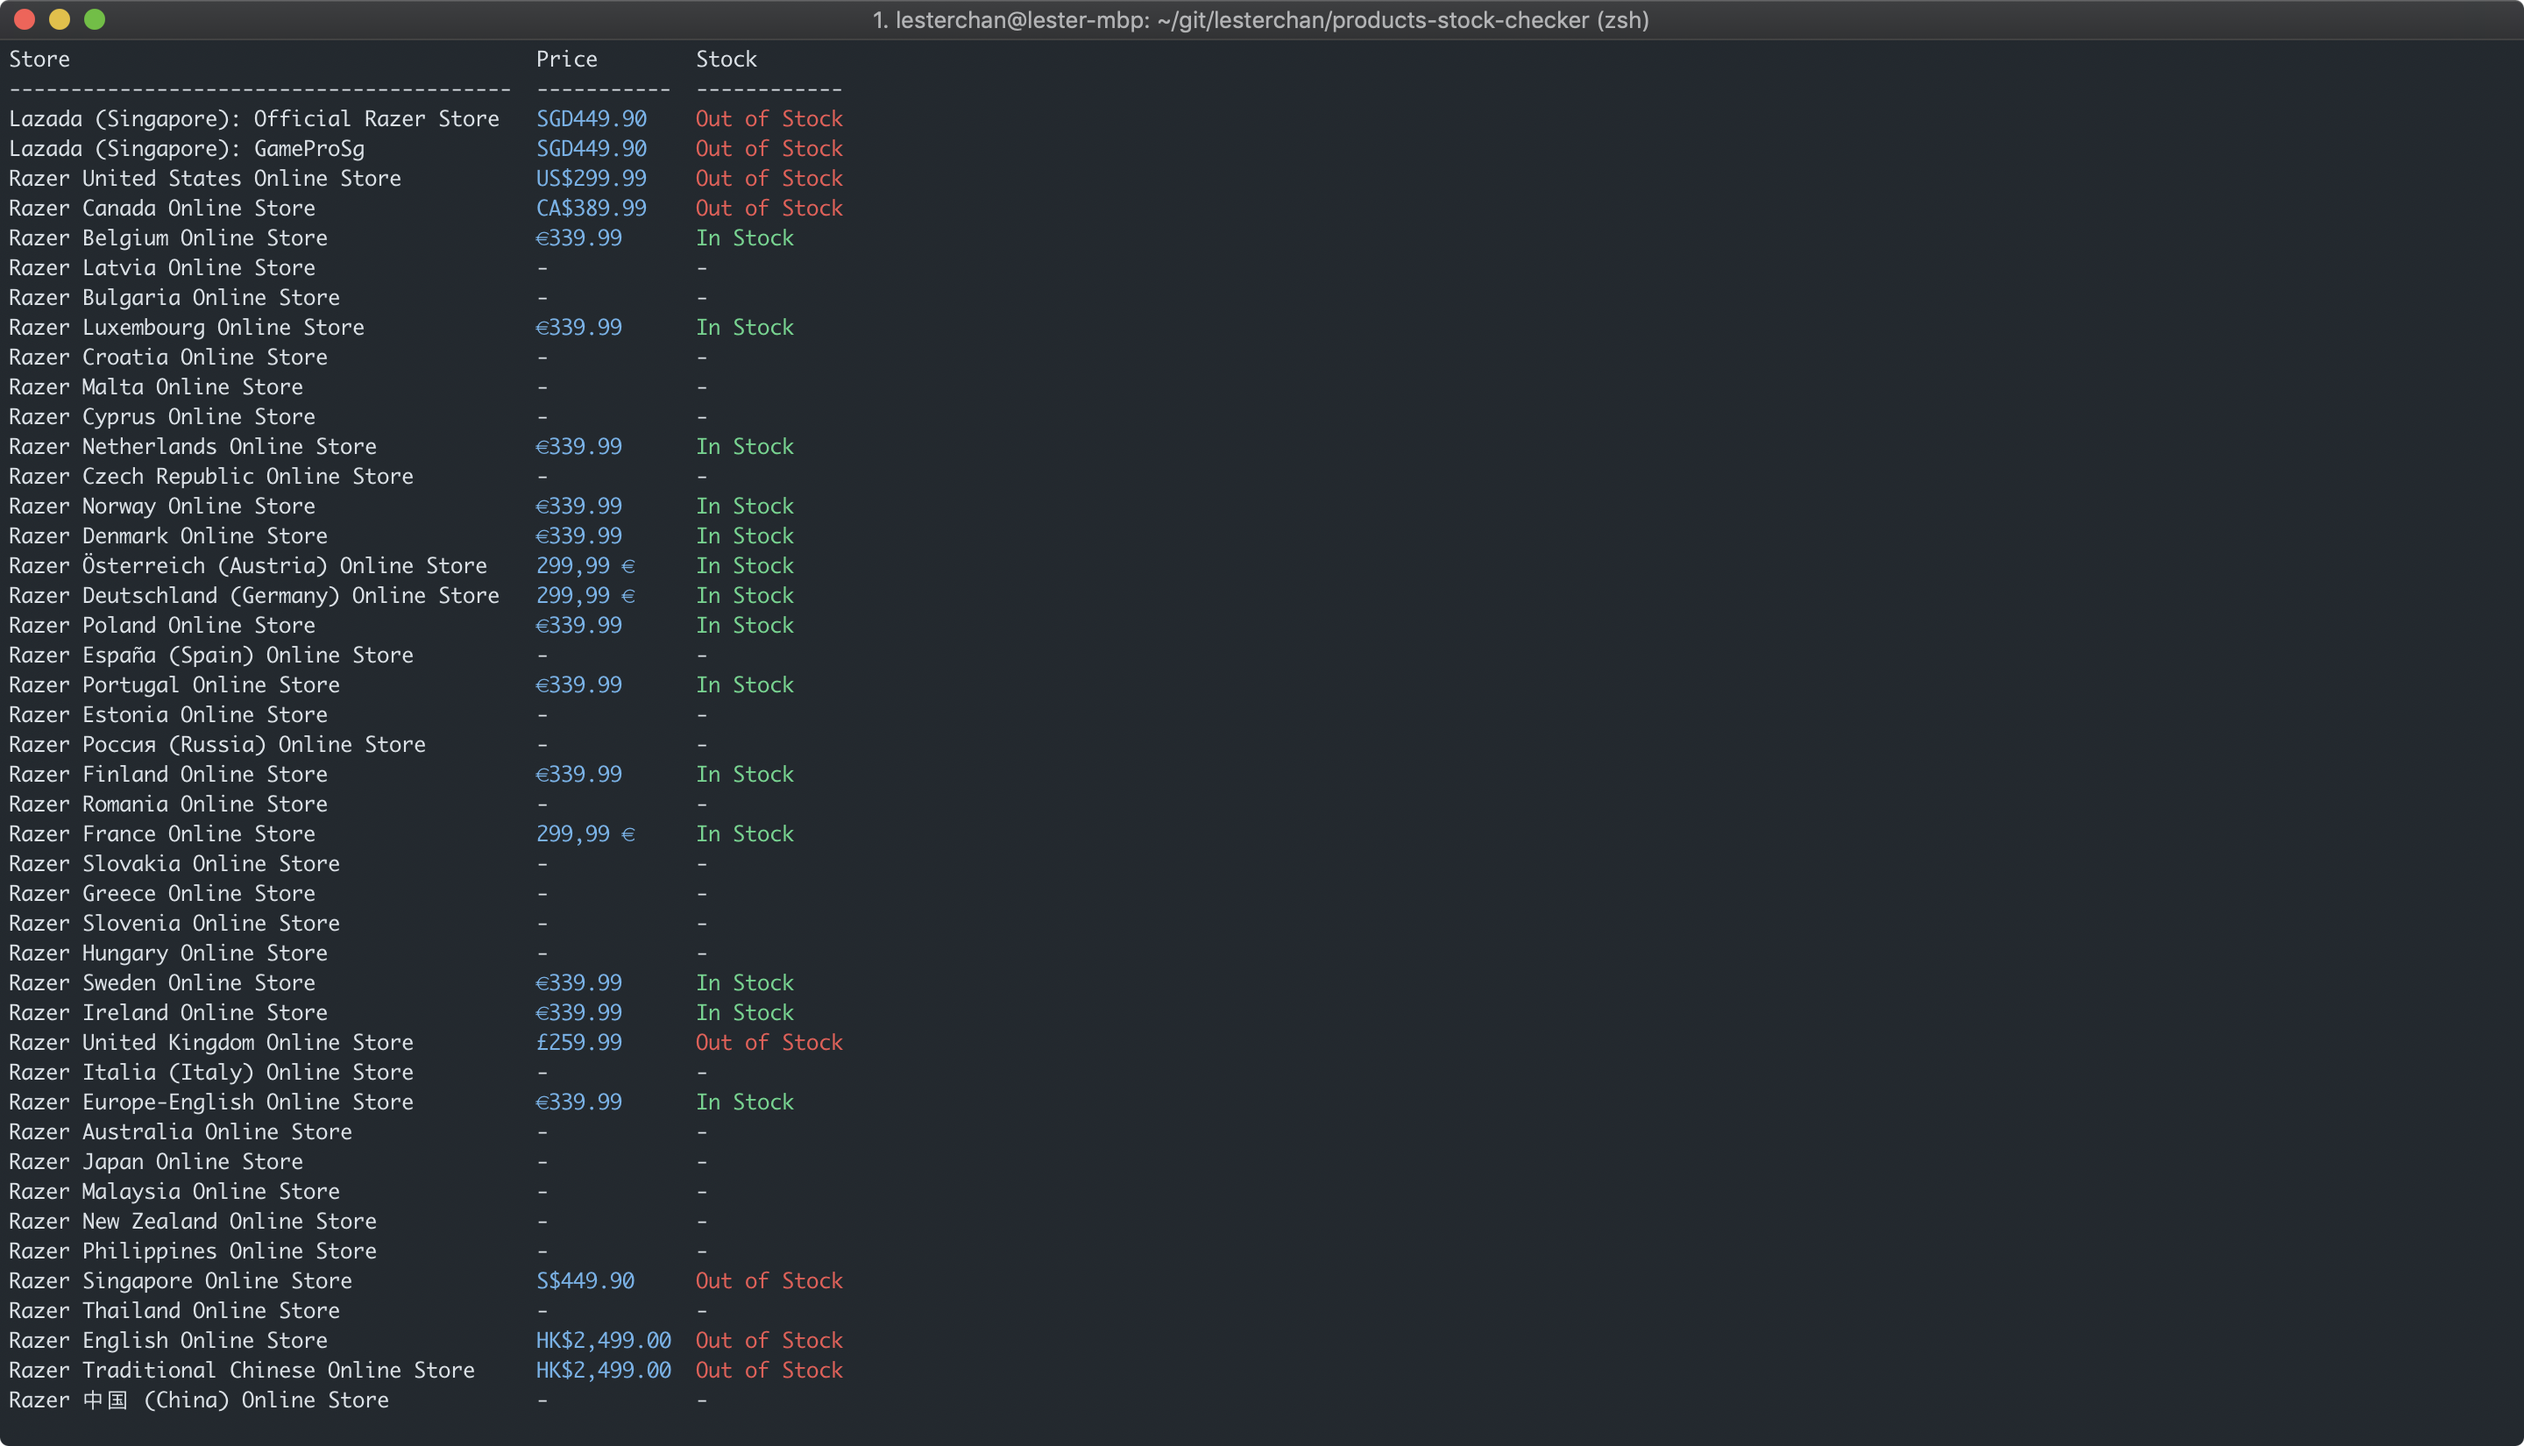
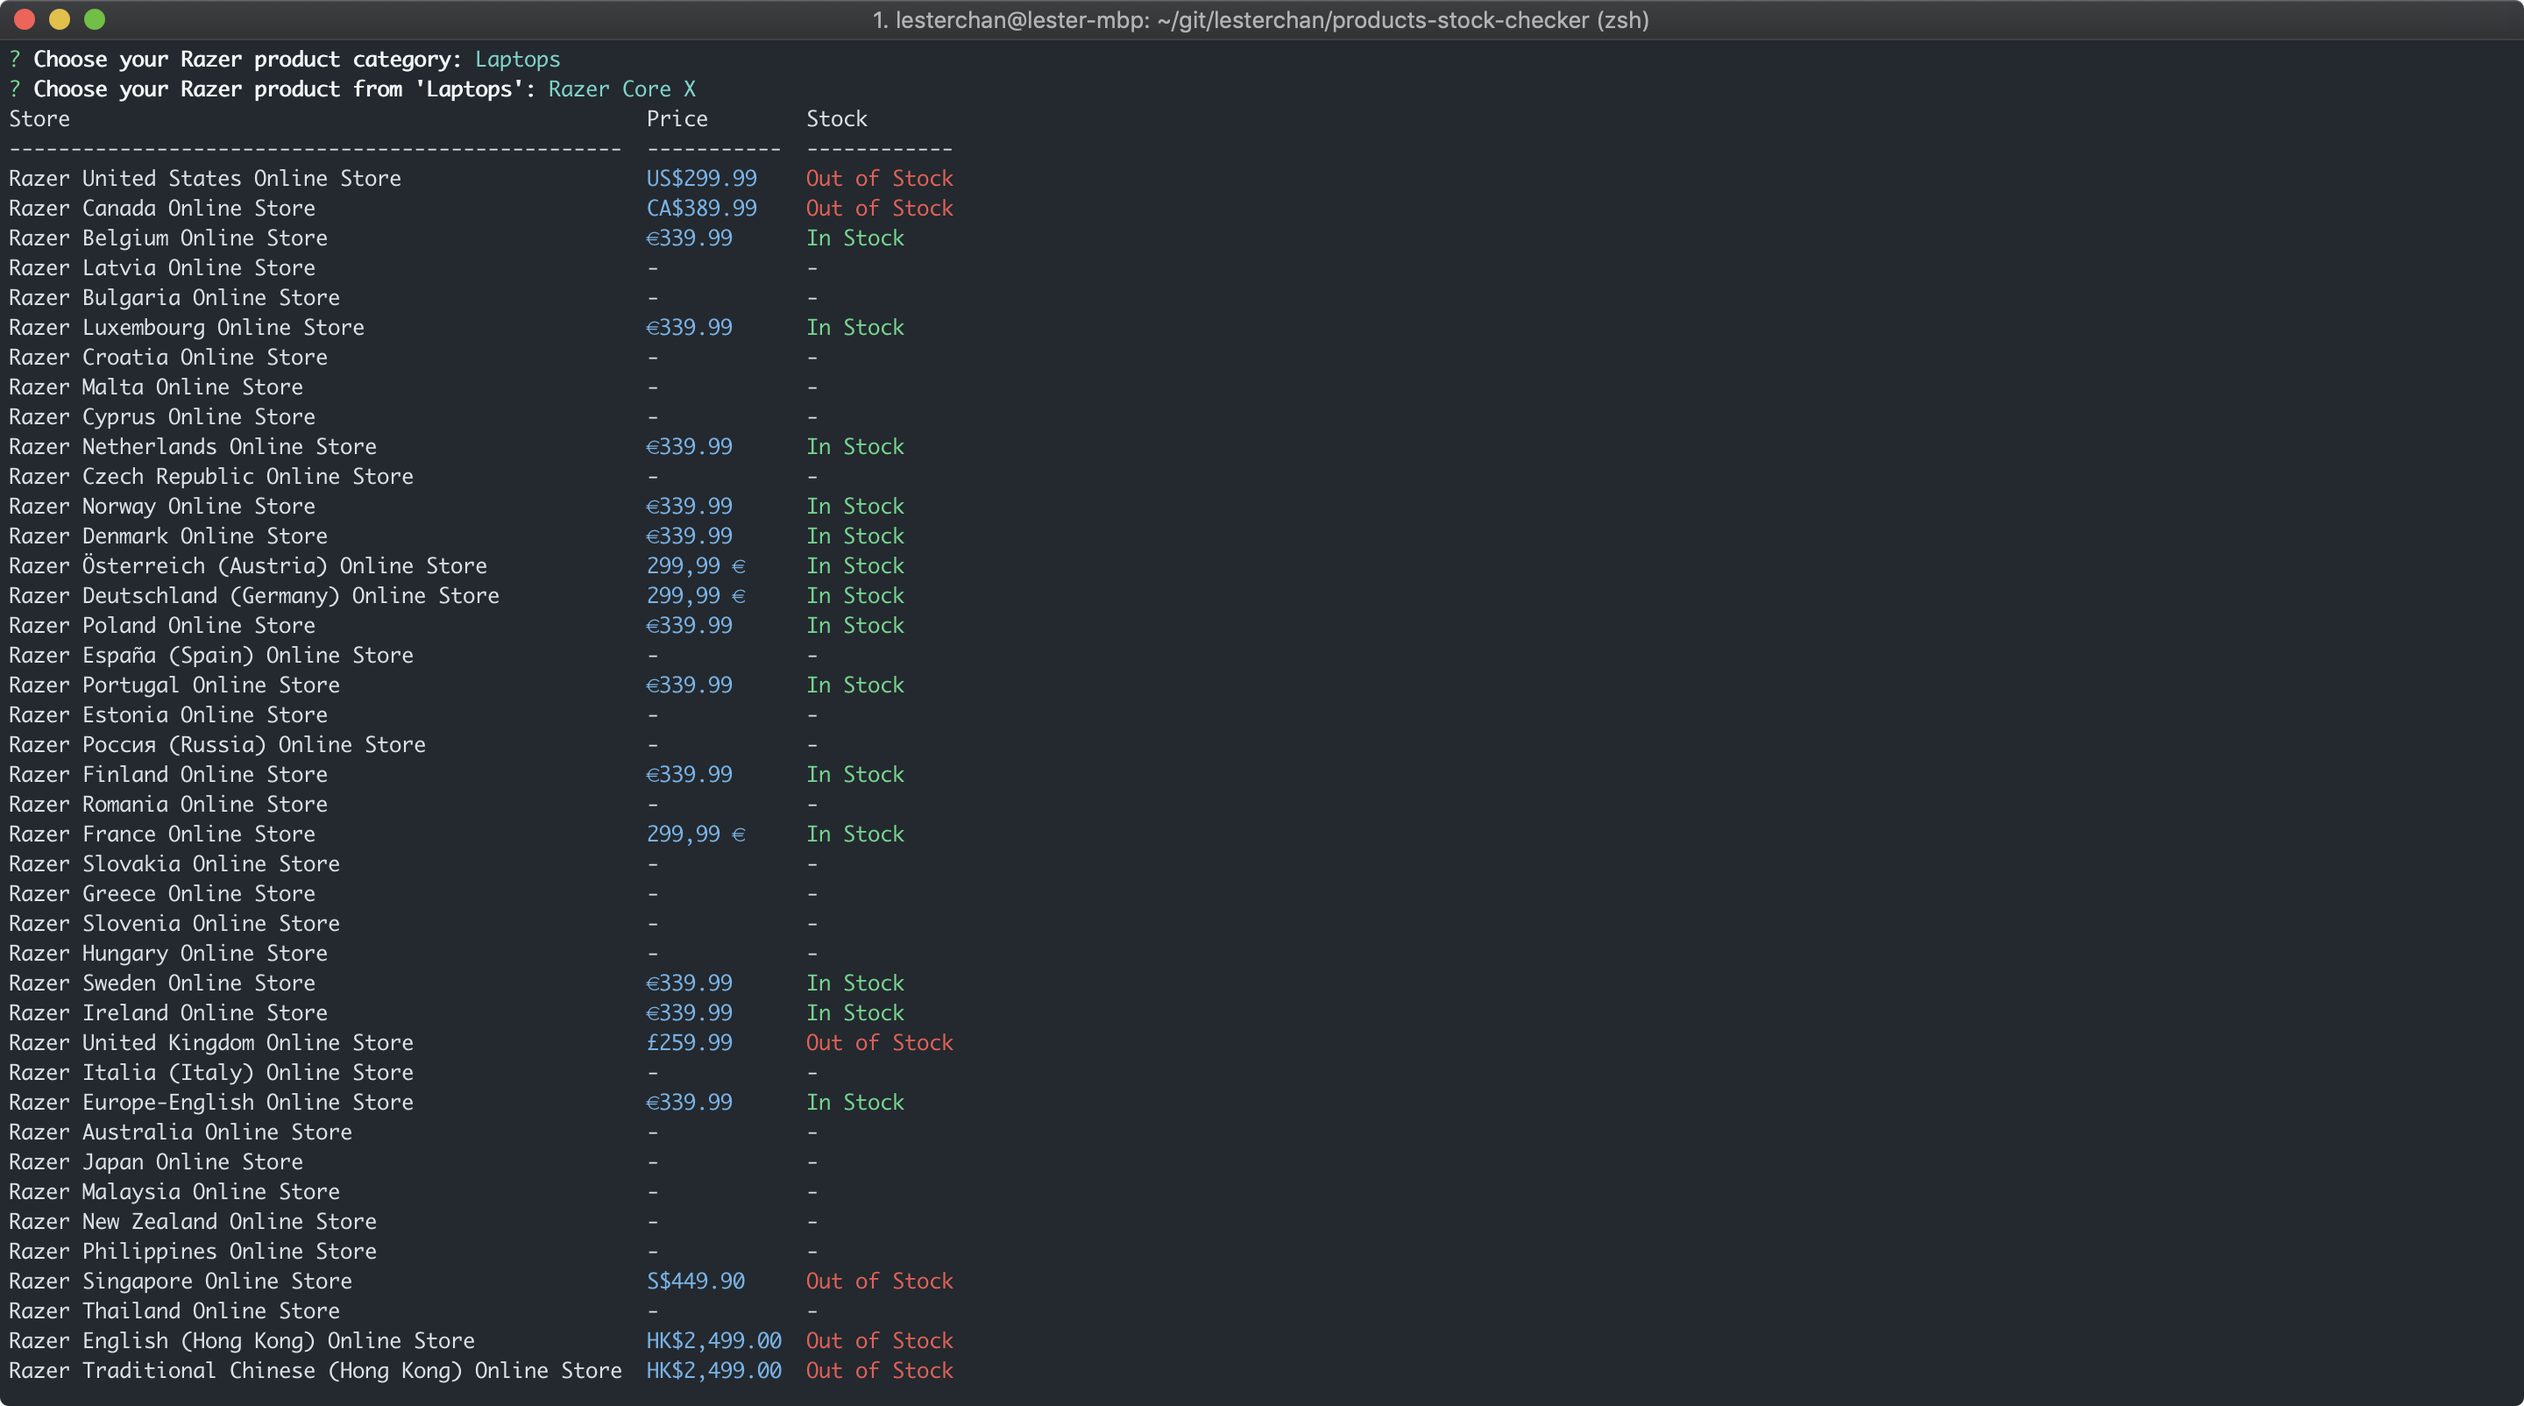
Added Is My Razer Product Available?

diff --git a/README.md b/README.md
@@ -4,15 +4,16 @@
 
 Just a personal project to check products price and stock availability on Razer Online Stores and Lazada.
 
-## Usage
+## Usage: Is My Razer Product Available?
 
+Checks the availability of any Razer product on Razer online stores worldwide.
+```npm run razer```
+
+![Is My Razer Product Available?](/screenshots/1.png?raw=true "Is My Razer Product Available?")
+
+## Usage: Razer Core X Availability In Singapore
+
+Checks Razer Core X availability on Razer Online Store, Lazada: Official Razer Store, and Lazada: GameProSg.
 ```npm run start```
 
-## Lint
-
-```npm run lint```
-
-## Screenshots
-
-![All](/screenshots/1.png?raw=true "All")
-![Singapore](/screenshots/2.png?raw=true "Singapore")
+![Razer Core X Availability In Singapore](/screenshots/2.png?raw=true "Razer Core X Availability In Singapore")
